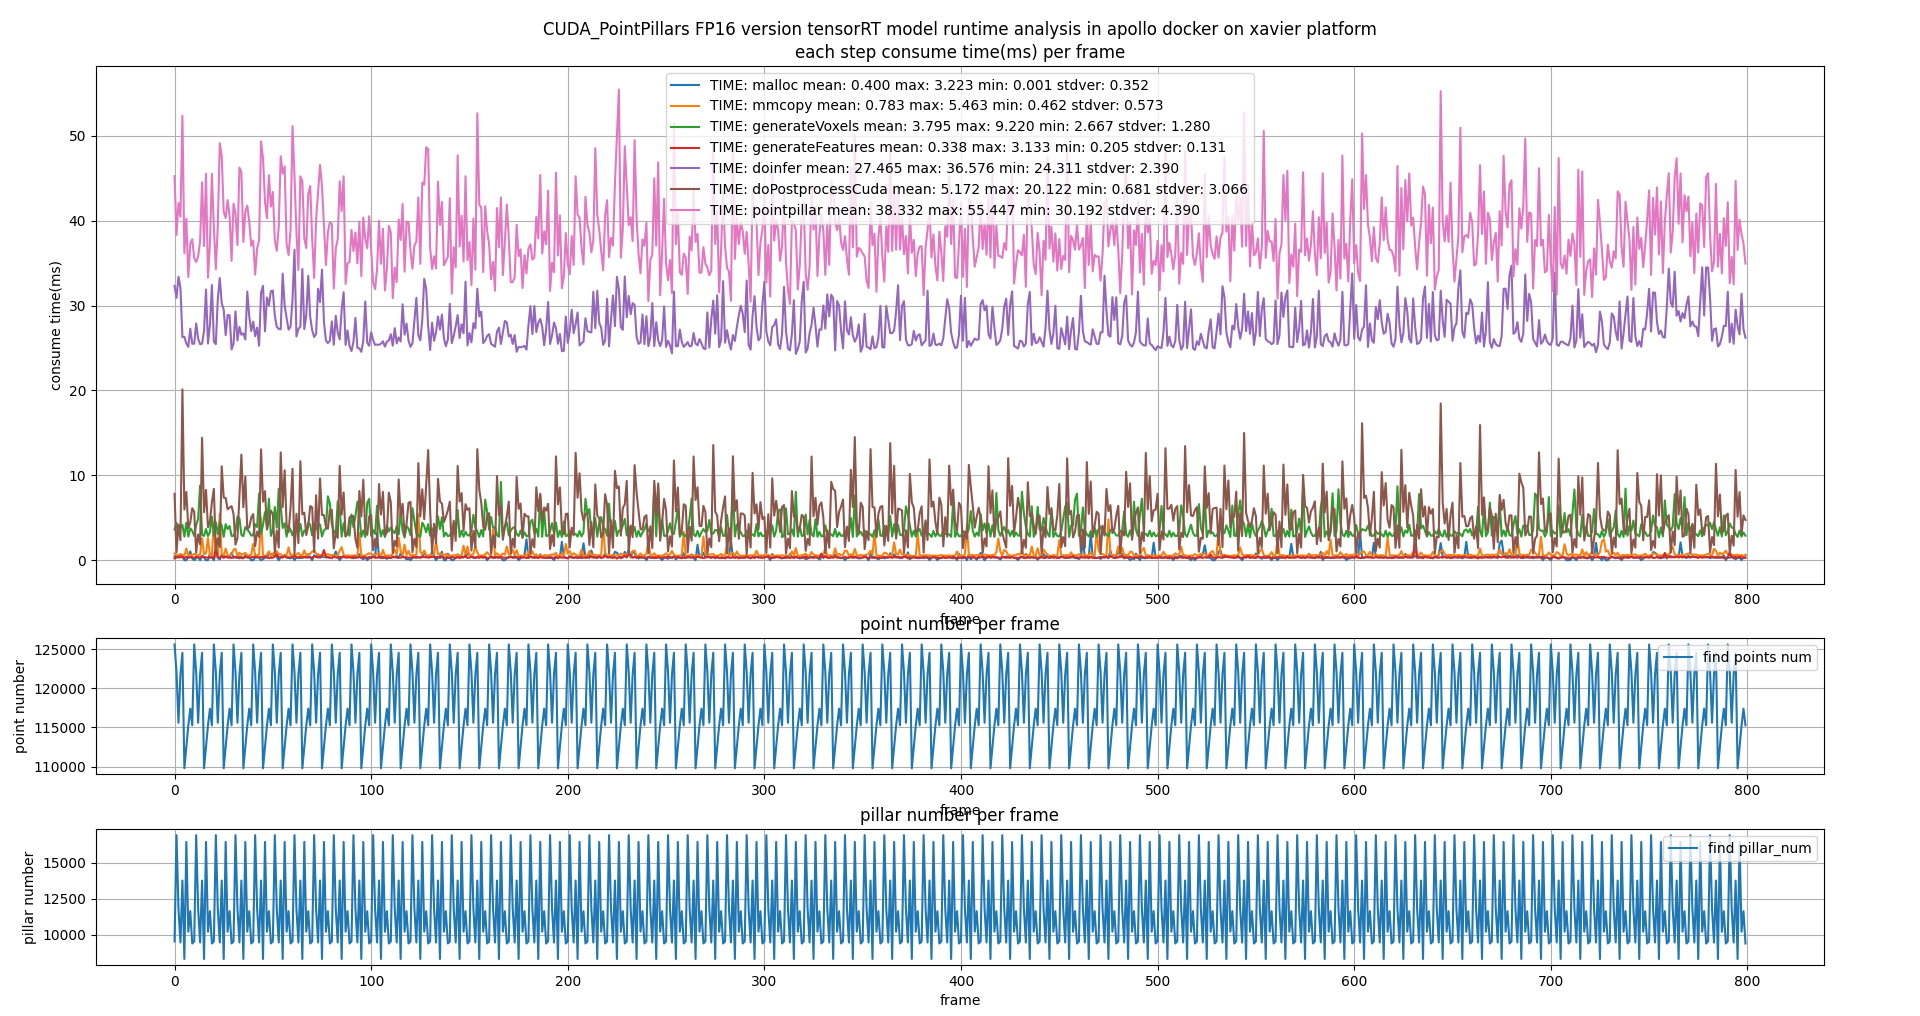
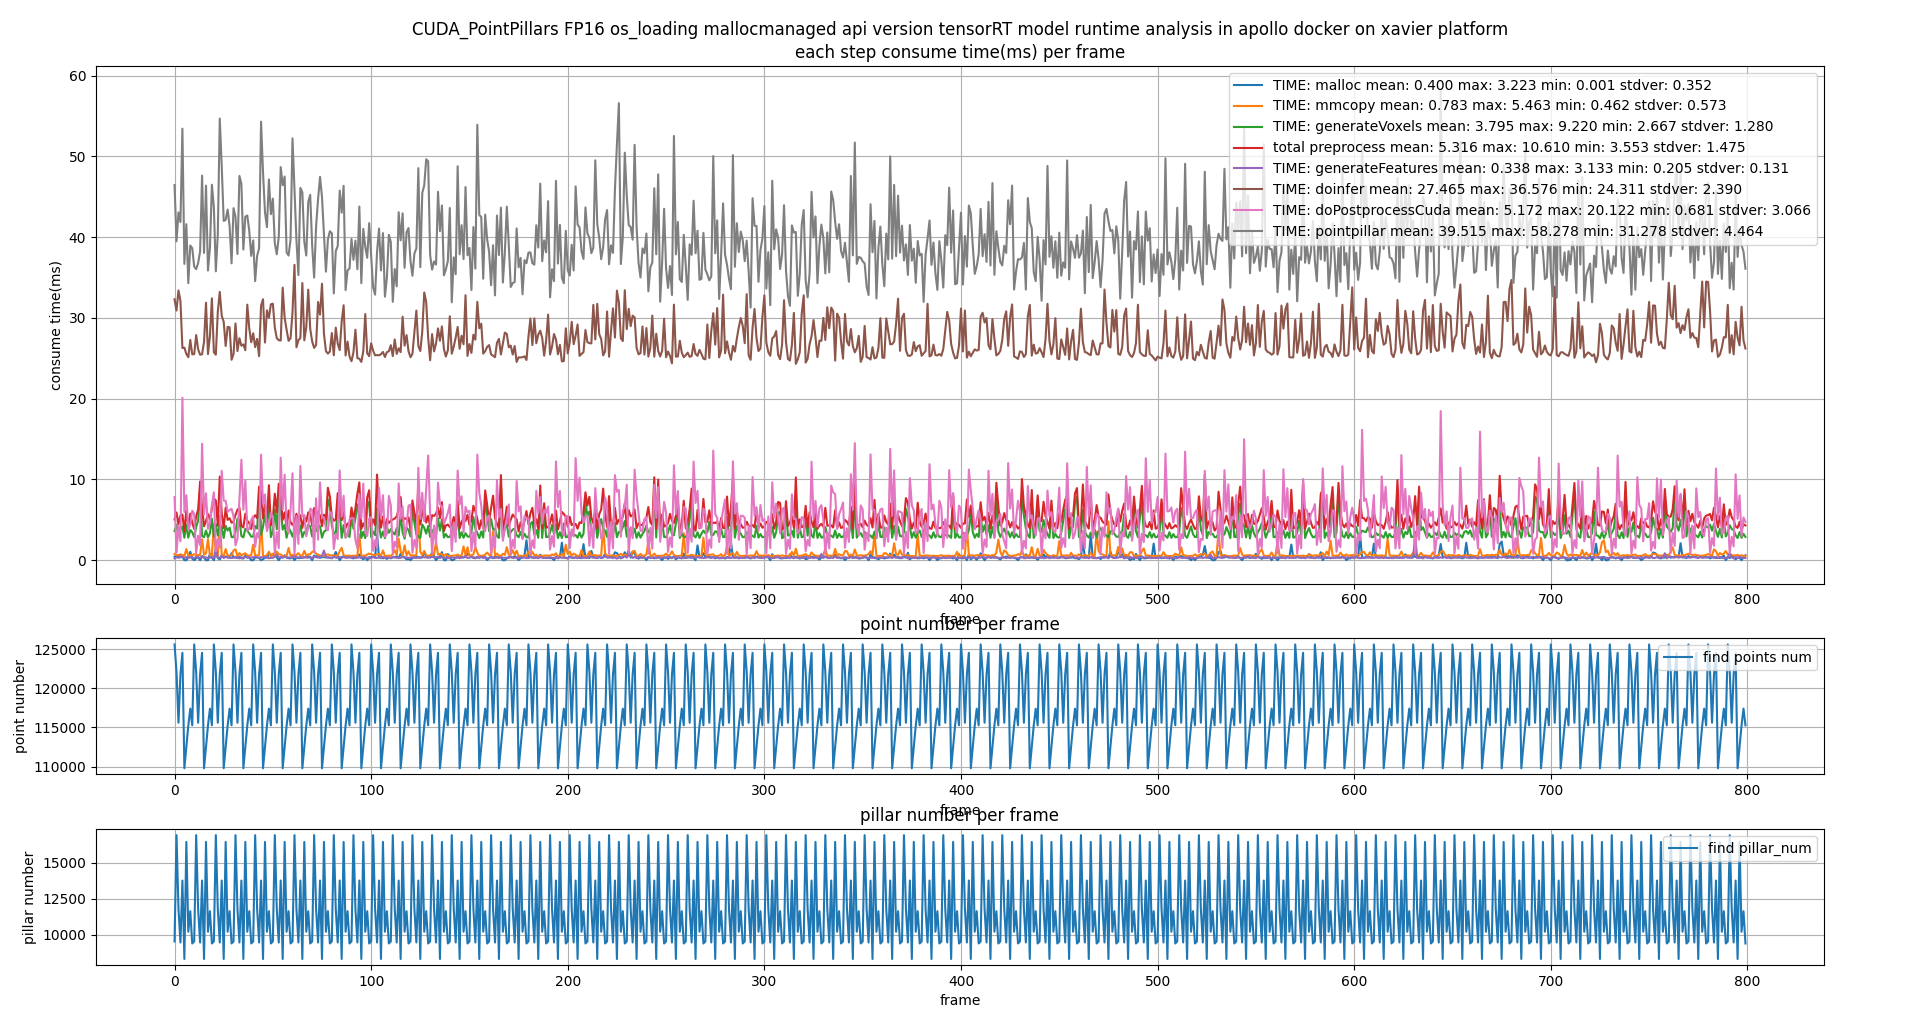
add total preprocess

diff --git a/test_analyze/pp_analyzer.py b/test_analyze/pp_analyzer.py
@@ -15,21 +15,22 @@ kMmcpoyM = True
 kPointNum = "find points num"
 kPointNumM = True
 
-
-kPointNum = "find points num"
-kPointNumM = True
-
-kPreprocess = "TIME: generateVoxels"
-kPreprocessM = True
-
 kValidPillars = "find pillar_num"
 kValidPillarsM = True
 
-kPfe = "TIME: generateFeatures"
-kPfeM = True
 
-kRpn = "TIME: doinfer"
-kRpnM = True
+kGenerateVoxels = "TIME: generateVoxels"
+kGenerateVoxelsM = True
+
+
+kGenerateFeatures = "TIME: generateFeatures"
+kGenerateFeaturesM = True
+
+kTotalPreprocess = "total preprocess"
+kTotalPreprocessM = True
+
+kDoInfer = "TIME: doinfer"
+kDoInferM = True
 
 kPostProcess = "TIME: doPostprocessCuda"
 kPostProcessM = True
@@ -37,9 +38,9 @@ kRunDetectionSum = "TIME: pointpillar"
 kRunDetectionSumM = True
 
 
-kLevel1 = [kMalloc, kMmcopy, kPointNum, kPreprocess, kValidPillars, kPfe, kRpn,
+kLevel1 = [kMalloc, kMmcopy, kPointNum, kGenerateVoxels, kValidPillars, kTotalPreprocess, kGenerateFeatures, kDoInfer,
            kPostProcess, kRunDetectionSum]
-kLevel1PlotMask = [kMallocM, kMmcpoyM, kPointNumM, kPreprocessM, kValidPillarsM, kPfeM, kRpnM,
+kLevel1PlotMask = [kMallocM, kMmcpoyM, kPointNumM, kGenerateVoxelsM, kValidPillarsM, kTotalPreprocessM, kGenerateFeaturesM, kDoInferM,
                    kPostProcessM, kRunDetectionSumM]
 kLevel1LastEle = [kPointNum, kValidPillars]
 
@@ -74,6 +75,18 @@ class InferenceInfo:
         assert(len(malloc_time) == len(total))
         for i in range(len(malloc_time)):
             total[i] += (malloc_time[i] + mmcopy_time[i])
+
+        generate_voxel_time = self.level1[kLevel1.index(kGenerateVoxels)]
+        generate_feat_time = self.level1[kLevel1.index(kGenerateFeatures)]
+        assert(len(malloc_time) == len(generate_voxel_time))
+        assert(len(malloc_time) == len(generate_feat_time))
+
+        total_preprocess = self.level1[kLevel1.index(kTotalPreprocess)]
+        for i in range(len(malloc_time)):
+            t = malloc_time[i] + mmcopy_time[i] + \
+                generate_feat_time[i] + generate_voxel_time[i]
+            total_preprocess.append(t)
+
         if kShowFig1:
             fig = plt.figure(figsize=(19, 10), dpi=100)
             gs = GridSpec(5, 1, figure=fig)
@@ -123,13 +136,14 @@ def Run(file_name: str, info: InferenceInfo):
 
 
 if __name__ == "__main__":
-    # file_name = '/home/guangtong/workspace/PointPillars/CUDA-PointPillars/CUDA_PointPillars_xavier_run.log'
-    # file_name = '/home/guangtong/workspace/PointPillars/CUDA-PointPillars/xavier_all_log.log'
-    # file_name = '/home/guangtong/workspace/PointPillars/CUDA-PointPillars/xavier_malloc_all_log.log'
-    # file_name = '/home/guangtong/workspace/PointPillars/CUDA-PointPillars/xavier_malloc_run_apollo_loading.log'
-    file_name = '/home/guangtong/workspace/PointPillars/CUDA-PointPillars/xavier_malloc_run_cpu_loading.log'
+    # file_name = '/home/guangtong/workspace/PointPillars/CUDA-PointPillars/test_analyze/CUDA_PointPillars_xavier_run.log'
+    # file_name = '/home/guangtong/workspace/PointPillars/CUDA-PointPillars/test_analyze/xavier_mallocmanaged_all_log.log'
+    file_name = '/home/guangtong/workspace/PointPillars/CUDA-PointPillars/test_analyze/xavier_malloc_all_log.log'
+    # file_name = '/home/guangtong/workspace/PointPillars/CUDA-PointPillars/test_analyze/xavier_malloc_run_apollo_loading.log'
+    # file_name = '/home/guangtong/workspace/PointPillars/CUDA-PointPillars/test_analyze/xavier_malloc_run_cpu_loading.log'
 
     inference_info = InferenceInfo()
     Run(file_name, inference_info)
     print(inference_info)
-    inference_info.plot("CUDA_PointPillars FP16 90\%\cpu_loading ", "xavier")
+    inference_info.plot(
+        'CUDA_PointPillars FP16 os_loading malloc api', "xavier")
